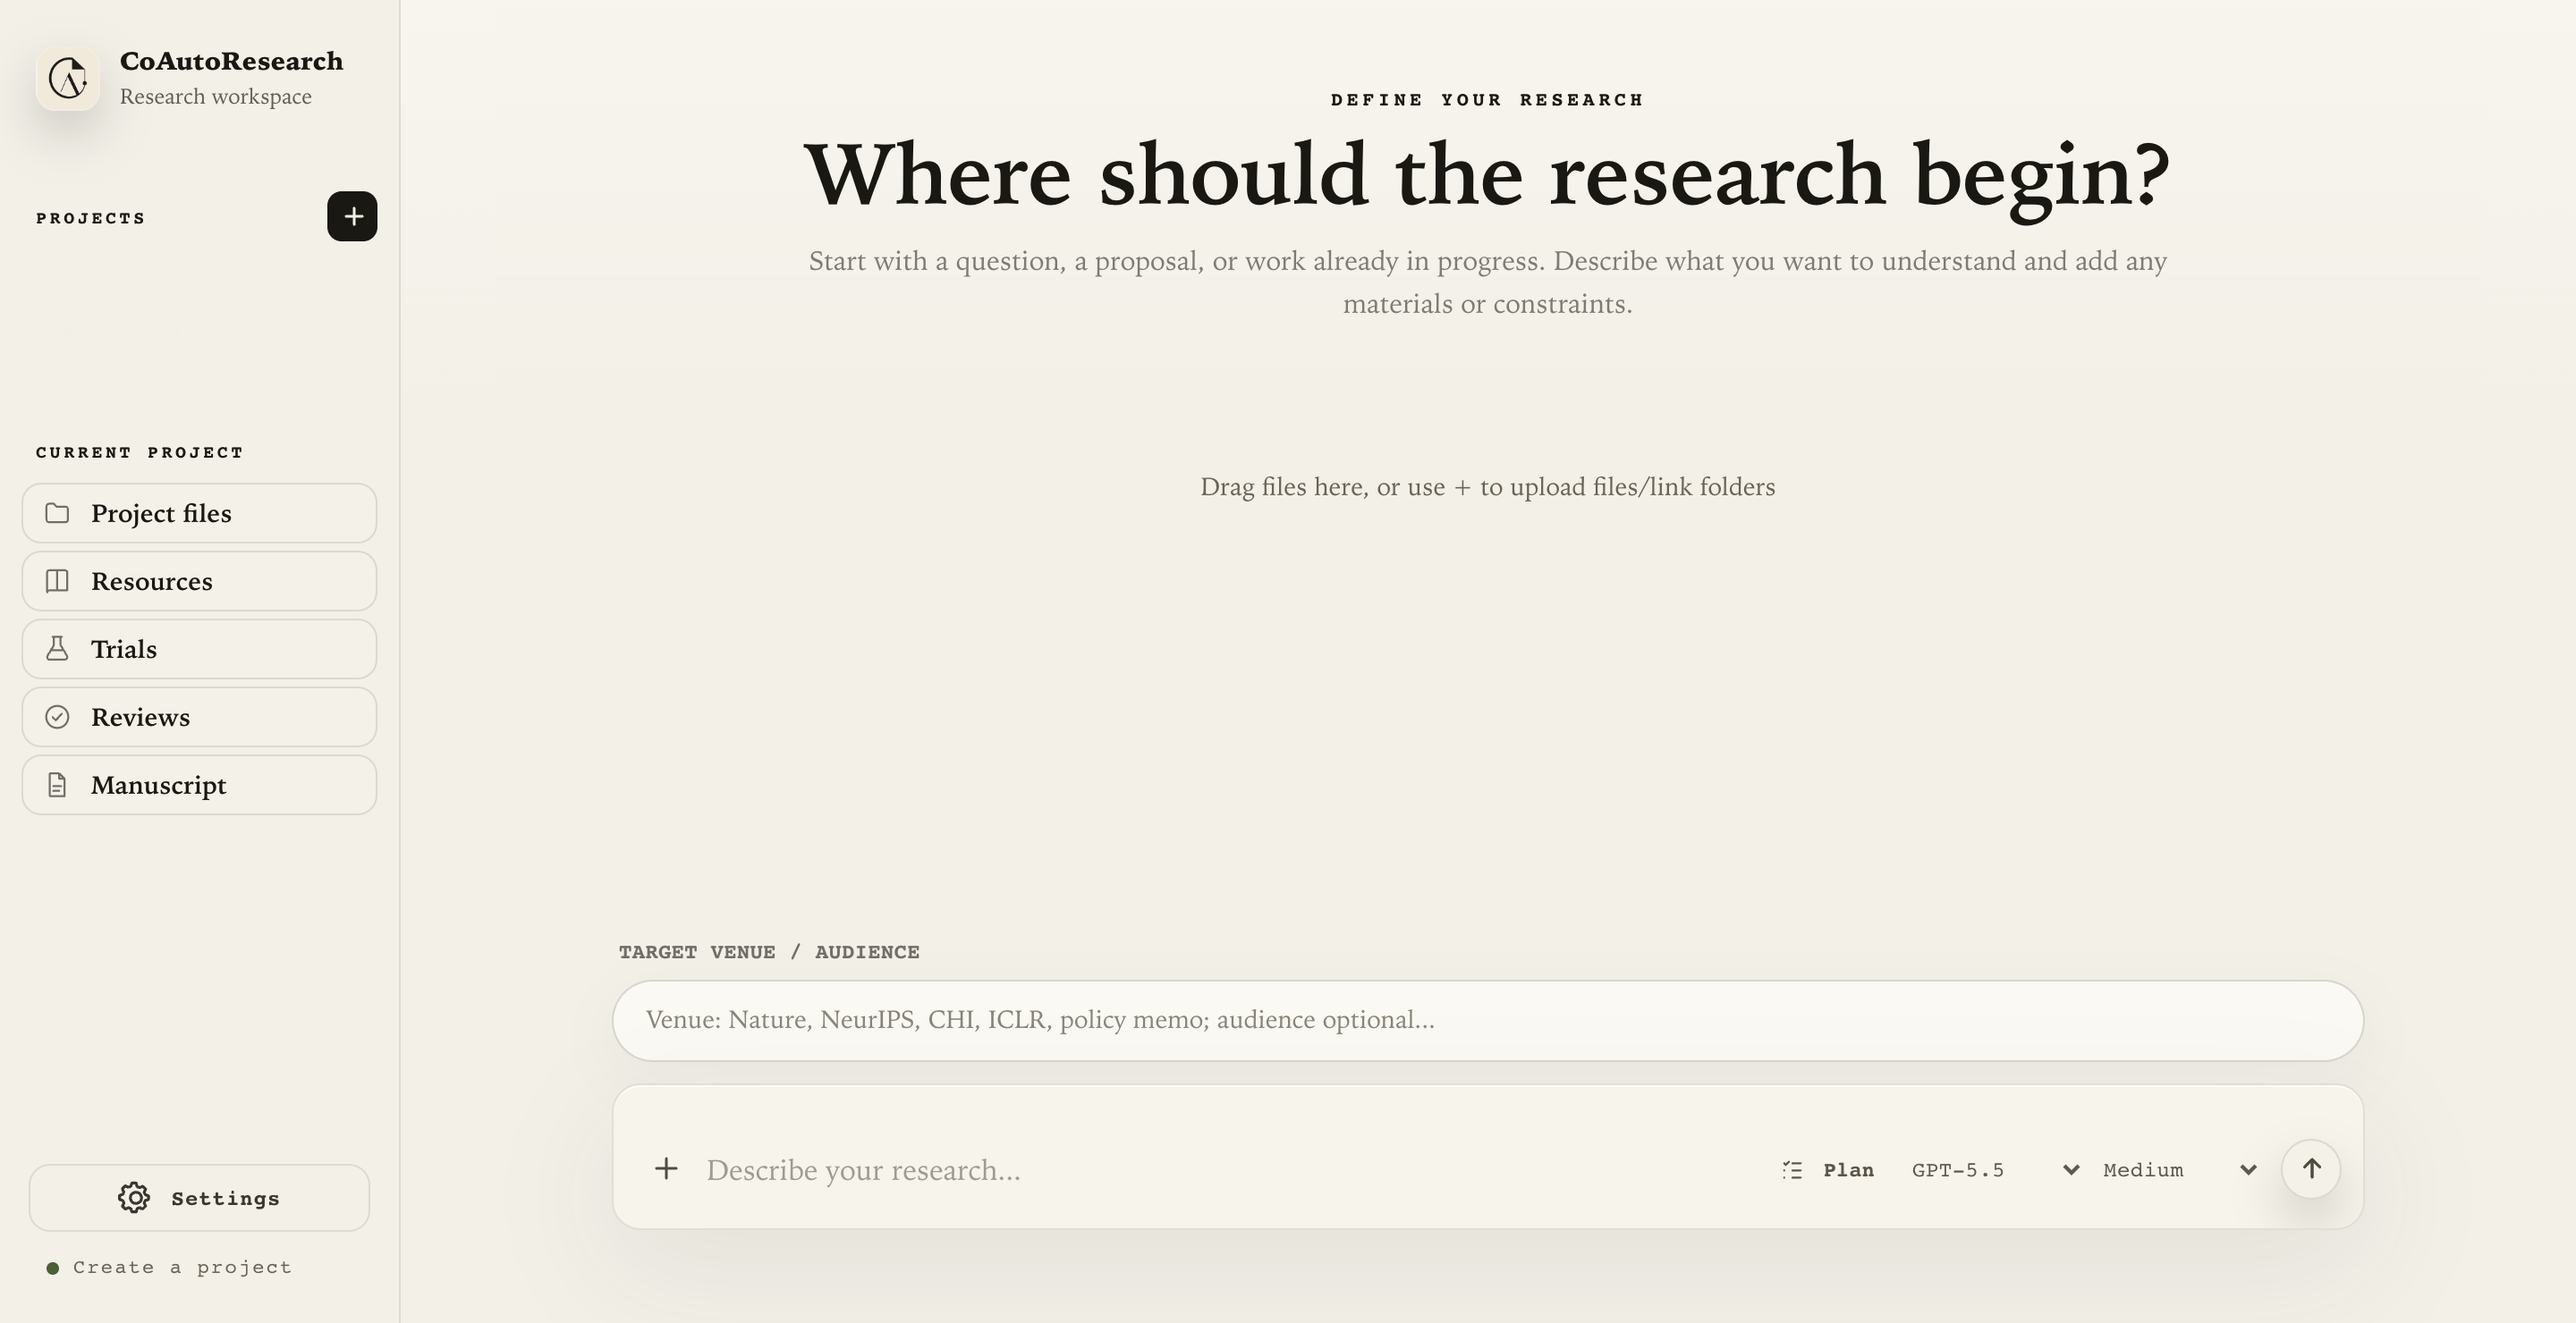
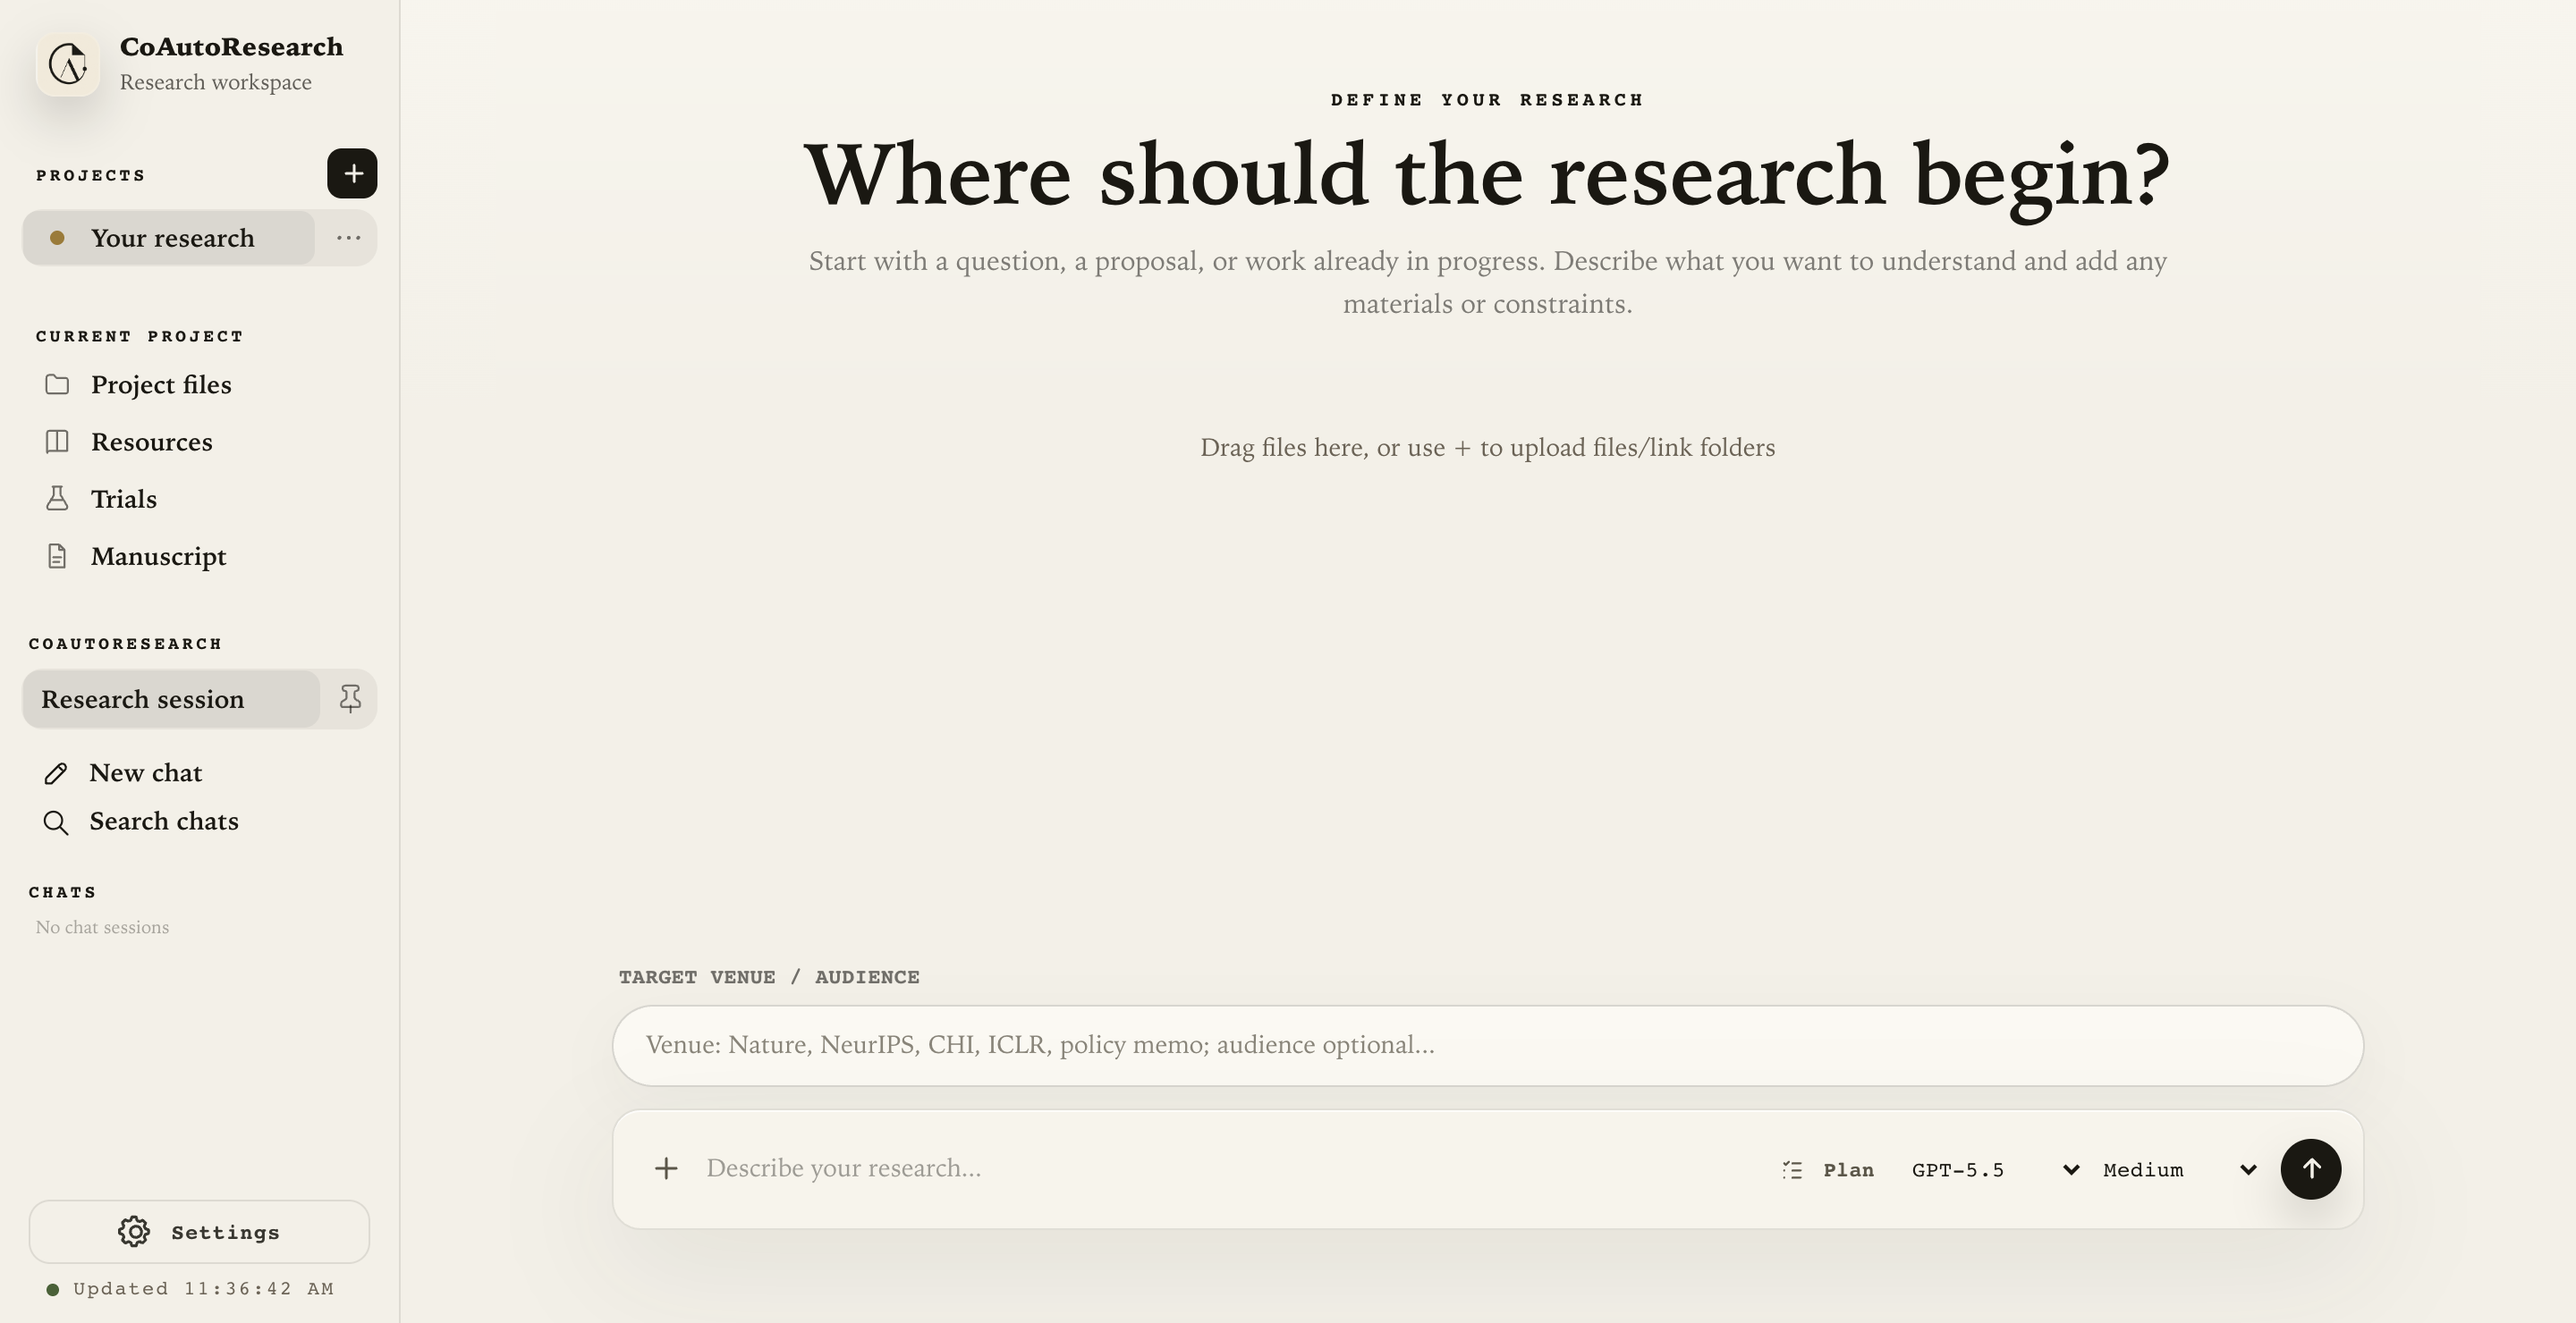
Align composer placeholder typography and refresh homepage screenshot

diff --git a/templates/default/ui/styles.css b/templates/default/ui/styles.css
@@ -17011,8 +17011,8 @@ html[data-theme] .brief-editor-shell:not(.is-framing-dock) .brief-composer-row #
   min-height: 44px !important;
   max-height: min(34vh, 320px) !important;
   margin: 0 !important;
-  line-height: 24px !important;
-  padding-block: 10px !important;
+  line-height: var(--conversation-line-height) !important;
+  padding-block: calc((44px - var(--conversation-text-size) * var(--conversation-line-height)) / 2) !important;
   padding-inline: 0 !important;
   white-space: pre-wrap !important;
   overflow-wrap: anywhere !important;
@@ -17023,7 +17023,7 @@ html[data-theme] .brief-editor-shell:not(.is-framing-dock) .brief-composer-row #
 }
 
 html[data-theme] .brief-editor-shell:not(.is-framing-dock) .brief-composer-row #cold-file-editor::placeholder {
-  line-height: 24px !important;
+  line-height: var(--conversation-line-height) !important;
 }
 
 html[data-theme="dark-glass"] .scroll-bottom-button {
@@ -20535,6 +20535,7 @@ html[data-theme] :is(
 html[data-theme] #chat-form textarea::placeholder,
 html[data-theme] .brief-editor-shell #cold-file-editor::placeholder,
 html[data-theme] .brief-editor-shell:not(.is-framing-dock) .brief-composer-row #cold-file-editor::placeholder {
+  font-size: inherit !important;
   line-height: var(--conversation-line-height) !important;
 }
 
@@ -20620,8 +20621,8 @@ html[data-theme] .brief-editor-shell.is-framing-dock #cold-file-editor.is-compac
   height: 44px !important;
   min-height: 44px !important;
   max-height: 44px !important;
-  padding-block: 11px !important;
-  line-height: 22px !important;
+  padding-block: calc((44px - var(--conversation-text-size) * var(--conversation-line-height)) / 2) !important;
+  line-height: var(--conversation-line-height) !important;
   overflow-y: hidden !important;
 }
 
